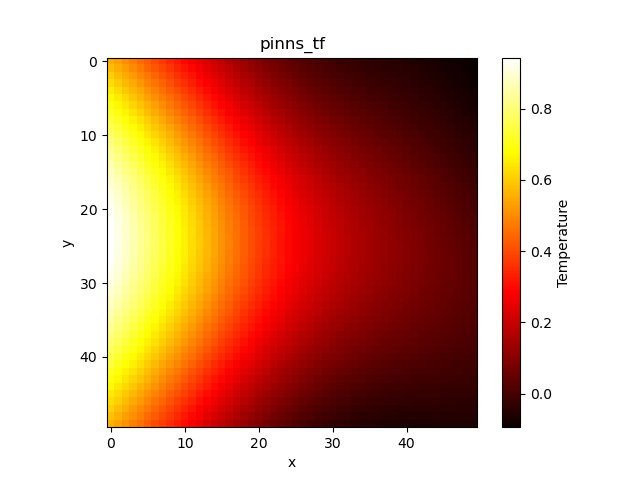
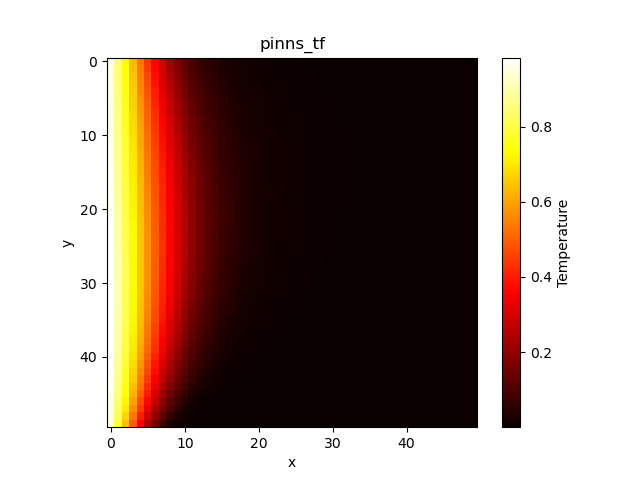
Implement initial conditions and update requirements.txt for compatibility with the latest changes

diff --git a/src/main.py b/src/main.py
@@ -32,10 +32,21 @@ def simu_pinns_tf(train: int= 1):
     x = tf.linspace(-1, 1, 50)
     y = tf.linspace(-1, 1, 50)
     x, y = tf.meshgrid(x, y)
+
+    init_output = np.zeros_like(x, dtype= np.float32)
+    init_output[0, :] = 1
+    init_output = tf.reshape(init_output, (-1, 1))
+
     x = tf.reshape(x, (-1, 1))
     y = tf.reshape(y, (-1, 1))
-    t = tf.reshape(tf.ones_like(y), (-1, 1))
-    pred_data = np.concatenate([x, y, t], axis= -1)
+    t = tf.reshape(tf.repeat(tf.range(0, 10, dtype= tf.float32)/10, repeats= 250), (-1, 1)) # time from 0 to 10
+    t = tf.random.shuffle(t, seed= 1)
+    t_init = tf.zeros_like(t, dtype= tf.float32)
+    t_test = tf.ones_like(t, dtype= tf.float32) * 2.5
+
+    pred_data = np.concatenate([x, y, t], axis= -1) # train
+    input_init = np.concatenate([x, y, t_init], axis= -1) # train init state
+    test_data = np.concatenate([x, y, t_test], axis= -1) # test the reult at time = 1
 
     # bound mask
     bound_l = pred_data[:, 0] == -1
@@ -47,37 +58,37 @@ def simu_pinns_tf(train: int= 1):
     interior_input = tf.convert_to_tensor(pred_data[~bound], dtype= tf.float32)
     bound_input = tf.convert_to_tensor(pred_data[bound], dtype= tf.float32)
     bound_output = tf.cast(tf.reshape(bound_l[bound], (-1, 1)), dtype= tf.float32)
-
+    output_init = tf.zeros_like(x, dtype= tf.float32)
 
     alpha = 0.01
 
-    epochs = 100
+    epochs = 5000
     if train:
         # Model, optimizer, and training loop
-        model = nn_model(input_shape=(3,), layers=[32, 64, 32])
+        model = nn_model(input_shape=(3,), layers=[16, 32, 32, 16])
         optimizer = tf.keras.optimizers.Adam(learning_rate=0.001)
         for epoch in range(epochs):
-            loss_value = train_step(model, bound_input, interior_input, bound_output, alpha, optimizer)
+            loss_value = train_step(model,input_init, bound_input, interior_input,output_init ,bound_output, alpha, optimizer)
             print(f"Epoch {epoch+1}, Loss: {loss_value.numpy()}")
         
         model.save(os.path.join(models_path, 'tf_pinns.h5'))
     else: 
         model = tf.keras.models.load_model(os.path.join(models_path, 'tf_pinns.h5'))
 
-    u = model(pred_data)
+    u = model(test_data)
     return u
 
 
 def main():
     # pinns_result = simu_pinns()
 
-    fdm_result = simu_fdm()
-    image_names = ['fdm_result']
-    show_image(fdm_result, image_name= image_names, save= 1)
+    # fdm_result = simu_fdm()
+    # image_names = ['fdm_result']
+    # show_image(fdm_result, image_name= image_names, save= 1)
 
-    # u = simu_pinns_tf(0)
-    # result = tf.reshape(u, (50, 50))
-    # show_image(result, image_name=['pinns_tf'], save= 1)
+    u = simu_pinns_tf(0)
+    result = tf.reshape(u, (50, 50))
+    show_image(result, image_name=['pinns_tf'], save= 1)
 
 if __name__ == "__main__":
     main()

diff --git a/src/pinns_tf.py b/src/pinns_tf.py
@@ -5,14 +5,14 @@ def nn_model(input_shape, layers):
     x = inputs
     for layer in layers:
         x = tf.keras.layers.Dense(layer, activation='tanh')(x)
-    outputs = tf.keras.layers.Dense(1)(x)  # Output layer with 1 neuron
+    outputs = tf.keras.layers.Dense(1, activation= 'sigmoid')(x)  # Output layer with 1 neuron
     return tf.keras.models.Model(inputs, outputs)
 
-def compute_loss(model, input_bound, input_interior, output_bound, alpha):
+def compute_loss(model, init_points, input_bound, input_interior,output_init, output_bound, alpha):
     x_i, y_i, t_i = tf.split(input_interior, num_or_size_splits=3, axis=1)
 
     u_bound = model(input_bound)
-
+    u_init = model(init_points)
     # Gradient computation using GradientTape
     with tf.GradientTape(persistent=True) as tape1:
         tape1.watch([x_i, y_i])
@@ -33,14 +33,15 @@ def compute_loss(model, input_bound, input_interior, output_bound, alpha):
 
     loss_interior = tf.reduce_mean(tf.square(u_t - alpha * (u_xx + u_yy)))*(1/len(input_interior))
     loss_boundary = tf.reduce_mean(tf.square(u_bound - output_bound))*(1/len(input_bound))
+    loss_init = tf.reduce_mean(tf.square(u_init - output_init))*(1/len(init_points))
 
-    return loss_interior + loss_boundary
+    return loss_interior + loss_boundary + 0.1 * loss_init
 
 # Training step
 @tf.function
-def train_step(model, input_bound, input_interior, output_bound, alpha, optimizer):
+def train_step(model, init_points, input_bound, input_interior,output_init, output_bound, alpha, optimizer):
     with tf.GradientTape() as tape:
-        loss_value = compute_loss(model, input_bound, input_interior, output_bound, alpha)
+        loss_value = compute_loss(model, init_points, input_bound, input_interior,output_init, output_bound, alpha)
     gradients = tape.gradient(loss_value, model.trainable_variables)
     optimizer.apply_gradients(zip(gradients, model.trainable_variables))
     return loss_value
